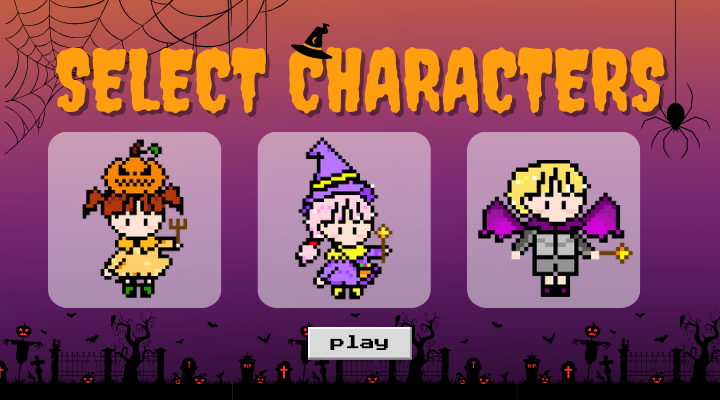
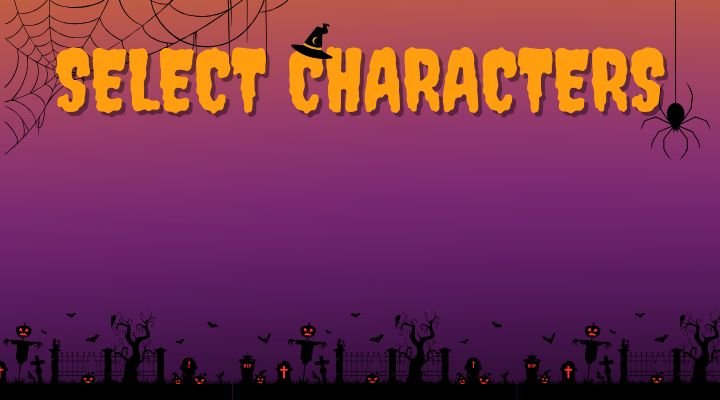
อัพรูปกับเพิ่ทหน้าเลือกตัวละคร

diff --git a/game_page_1.py b/game_page_1.py
@@ -41,10 +41,18 @@ background_charecter_3 = pygame.image.load("Image/select_3.png").convert_alpha()
 # set button
 button_start = Button("Image/button_start.png" ,(300,300))  #Button เป็นการกำหนดว่ารูปนี้คือปุ่ม
 button_howtoplay= Button("Image/button_howtoplay.png",(0,250))
+button_play = Button("Image/button_play.png",(0,300))
+button_back = Button("Image/button_back.png",(0,300))
+charecters_1 = Button("Image/1_charecter.png",(60,133))
+charecters_2 = Button("Image/2_charecter.png",(269,135))
+charecters_3 = Button("Image/3_charecter.png",(479,135))
 
 # variable
-button_value = False
+start_value = False
 select_charecters_value = False
+charecters_1_value = False
+charecters_2_value = False
+charecters_3_value = False
 
 
 #game loop
@@ -56,10 +64,20 @@ while run:
     button_start.draw(screen)
     #button start
     if button_start.is_pressed():
-        button_value = True
-    if button_value == True:
+        start_value = True
+    if start_value == True:
         screen.blit(select_charecters,(0,0))
         select_charecters_value = True
+    if select_charecters_value == True:
+            charecters_1.draw(screen)
+            charecters_2.draw(screen)
+            charecters_3.draw(screen)
+    '''     
+    if charecters_1.is_pressed():
+        charecters_1_value == True
+        if charecters_1_value == True:
+            print("111")
+    '''
 
         
     
